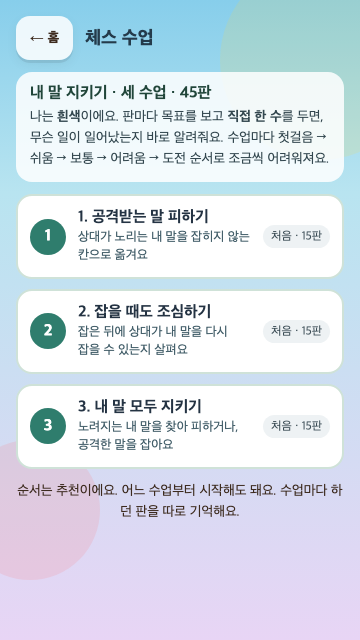
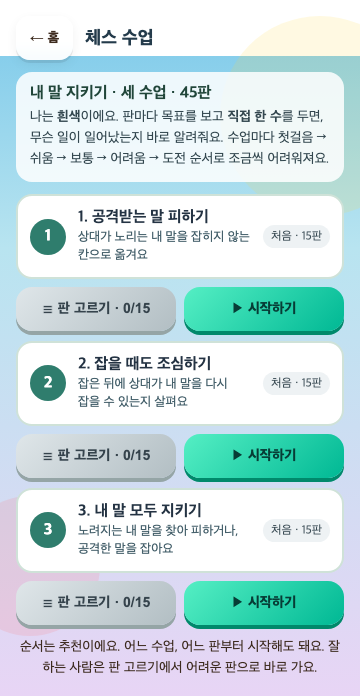
docs: 체스 수업 판 고르기 기록, 빌드 2026.11.07.5

diff --git a/js/version.js b/js/version.js
@@ -1,1 +1,1 @@
-globalThis.CHESS_BUILD = '2026.11.07.4';
+globalThis.CHESS_BUILD = '2026.11.07.5';

diff --git a/docs/lessons/LESSON_REDESIGN_V2.md b/docs/lessons/LESSON_REDESIGN_V2.md
@@ -1,6 +1,6 @@
 # 체스 수업 — 직접 두고, 둔 수를 설명한다
 
-작성: 2026-11-07. v2 빌드 `2026.11.07.3`, v3(45판·단계·성공 표시) 빌드 `2026.11.07.4`. 이 문서는 [첫 구현 명세](INTERACTIVE_LESSONS_DESIGN.md)의 수업 흐름(§3~§5 보기·함께·혼자, 지목형 수업 1)을 대체한다. 저장·백업 v5, 대전 연결, 무료·동일 기능, 판 고정 같은 나머지 계약은 그대로다.
+작성: 2026-11-07. v2 빌드 `2026.11.07.3`, v3(45판·단계·성공 표시) 빌드 `2026.11.07.4`, 판 고르기 빌드 `2026.11.07.5`. 이 문서는 [첫 구현 명세](INTERACTIVE_LESSONS_DESIGN.md)의 수업 흐름(§3~§5 보기·함께·혼자, 지목형 수업 1)을 대체한다. 저장·백업 v5, 대전 연결, 무료·동일 기능, 판 고정 같은 나머지 계약은 그대로다.
 
 ## 1. 왜 바꿨나
 
@@ -32,6 +32,28 @@ v2를 써 본 사용자 요청:
 - 판이 끝나면 목표 칸이 크게 바뀐다(`🎉 판 3 성공! · 3/15 클리어` / `✗ 잡혔어요! 다시 해봐요` / `✗ 아직 목표를 이루지 못했어요`). 판 테두리도 초록/빨강으로 바뀐다. 진행 줄에는 `판 7/15 · 보통`과 클리어 막대가 있고, 수업을 마치면 `🏆 15판 모두 성공!`이 나온다.
 - 판을 5판에서 15판으로, 모두 45판(3배)으로 늘렸다. 수업마다 5단계(첫걸음 → 쉬움 → 보통 → 어려움 → 도전) × 3판이다.
 - 판은 생성기(`scripts/generate-lesson-levels.cjs`)가 단계 조건에 맞춰 엔진으로 만든다. 난이도 점수가 판 번호를 따라 오르도록 고른다(§3).
+
+## 1-2. 판 고르기 (빌드 `2026.11.07.5`)
+
+사용자 요청: "판 자체를 고를 수 있게 해 달라. 어느 정도 하는 사람에게는 앞 단계가 지루하다."
+
+- **판 고르기 창**
+  - 단계(첫걸음~도전)별로 판 번호 버튼 3개씩, 모두 15개가 있다. 성공한 판은 ✓, 지금(하던) 판은 파란 테두리다.
+  - 잠금 없이 아무 판이나 바로 시작한다.
+  - 창 아래에 `↺ 1판부터 다시`(확인 뒤)가 있다.
+- **들어가는 곳**
+  - 수업 목록의 모든 카드에 `☰ 판 고르기 · 성공 n/15`가 있다(옆에 `▶ 시작하기` 또는 `↺ 처음부터`·`▶ 이어하기`).
+  - 수업 화면 오른쪽 위 버튼도 `☰ 판 고르기`다.
+- **판별 성공 기록**
+  - 성공한 판은 `lesson_progress_v1`의 `solved`(판 ID 목록)에 남는다. 그래서 다시 열거나 처음부터 해도 ✓가 유지된다.
+  - 어떤 순서로든 15판을 모두 성공하면 그 순간 수업 완료로 기록한다.
+- **성공 뒤 진행 버튼**
+  - 마지막 판이 아니면 `다음 판 ▶`이다.
+  - 마지막 판이면, 모두 성공했을 때 `수업 마치기 ▶`, 안 푼 판이 남았으면 `남은 판 하기 ▶`(첫 미해결 판으로)다.
+- **기타**
+  - 목록에서 판을 고르면 하던 판의 위치만 바뀌고, 성공 기록과 힌트 사용 여부는 이어진다.
+  - 응수 중에 판을 골라도 예약된 잡기는 버려진다.
+  - 파일 가져오기는 `solved` 목록도 확인한다(그 수업의 판 ID만, 중복 없이).
 
 ## 2. 판 하나의 진행
 
@@ -159,7 +181,7 @@ v2를 써 본 사용자 요청:
 
 | 영역 | 높이 | 내용 |
 |---|---|---|
-| 헤더 | 44px | `← 목록` · 제목(두 줄까지) · `↺ 처음부터` |
+| 헤더 | 44px | `← 목록` · 제목(두 줄까지) · `☰ 판 고르기` |
 | 진행 줄 | 28px | `판 n/15 · 단계` + 클리어 막대, 오른쪽 `나 = 흰색` |
 | 설명 영역 | 140px | 위칸 🎯 목표(두 줄, 판이 끝나면 성공/실패 문구), 아래칸 지금 할 일 또는 결과(넉 줄, 결과에 따라 색) |
 | 판 | 너비 `min(100%, max(260px, 100dvh − 312px))`, 최대 440px | 판의 말마다 `나`/`상대` 표시 |
@@ -167,7 +189,7 @@ v2를 써 본 사용자 요청:
 
 - 360×640에서 모든 상태의 문구가 넘치지 않는 것을 45판 전부 측정했다(실패·성공 상태 포함). 판의 화면 좌표는 모든 판·상태에서 같다.
 - 시범·소개 창·단계 칩·도움 3단계·`방법과 이유` 창은 없앴다. 이유는 결과 문장이 바로 말한다.
-- 수업 목록의 진행 중 카드에는 `↺ 처음부터 다시`(왼쪽)·`▶ 이어하기`(오른쪽)가 있다.
+- 수업 목록의 카드마다 `☰ 판 고르기`가 있고, 진행 중이면 `↺ 처음부터`·`▶ 이어하기`, 처음이면 `▶ 시작하기`가 있다.
 
 ## 5. 저장·호환
 
@@ -178,7 +200,7 @@ v2를 써 본 사용자 요청:
 - 복원·파일 가져오기는 신뢰된 교재의 배치와 기록된 수로 판을 다시 만들어 비교한다. 다르면 거절한다.
 - 세션·백업 버전은 그대로 v5다.
 - 예전 v1(`protect-spot-v1` 등)·v2(`protect-escape-v2` 등) 수업 ID의 저장·기록·수업 배치 대전이 파일이나 기기에 있으면 오류 없이 버린다. 교재가 바뀌어 이어할 수 없기 때문이다. 다른 모르는 ID는 여전히 거절한다.
-- 완료 기록: 모든 판 성공 뒤 `수업 마치기`에서 남는다. 수업 중 힌트를 썼으면 도움, 안 썼으면 혼자로 기록한다.
+- 완료 기록: 판별 성공은 `solved`에 쌓인다. 15판을 모두 성공한 순간 완료로 기록하고, 마지막 판의 `수업 마치기`에서도 기록한다. 수업 중 힌트를 썼으면 도움, 안 썼으면 혼자로 기록한다.
 
 ## 6. 검증
 

diff --git a/README.md b/README.md
@@ -15,7 +15,7 @@ npm run dev
 - **홈:** `체스 대전` / `기사의 여행 · 나이트 투어` / `체스 처음 배우기`로 한 번에 들어갑니다. 다른 놀이는 `놀이터 · 전체 놀이`와 `모험 지도`에서 그대로 제공합니다.
 - **대전:** [컴퓨터 10단계](docs/AI_DIFFICULTY.md)·같은 기기에서 함께 두기(마주 보기·한 수 시간)·말이 적은 짧은 판. 끝난 판의 설정 그대로 `같은 상대와 다시 두기`, 컴퓨터를 이기면 고를 수 있는 `다음 단계 도전`. [배운 말로 첫 대전](docs/STARTER_BATTLES.md) 4판(룩·비숍·나이트·퀸)과 대국 중 `말 움직임 보기`. 난이도 `!` 설명 표, 체크·캐슬링·승패의 명확한 알림, 체크 공격선과 실제 대응 방법, 힌트·시범·되돌리기, 캐슬링·앙파상·승격 선택.
 - **기사의 여행 · 나이트 투어:** 산책·10칸 탐험·5/6/7 크기 완주, 갈림길 알림·전체 경로/다음 한 수 힌트, 무작위 시작, 가족과 번갈아 두기. 무료 [규칙 문제 10판](docs/KNIGHT_RULE_PUZZLES.md): 일부 칸이 없는 판 5판, 순서 표식 5판.
-- **체스 수업:** 무료 `내 말 지키기` 3수업 × 15판 = 45판(공격받는 말 피하기 · 잡을 때도 조심하기 · 내 말 모두 지키기). 수업마다 첫걸음 → 쉬움 → 보통 → 어려움 → 도전 순서로 어려워지고, 판이 끝나면 성공·실패를 크게 알려줘요. 판마다 목표 한 줄을 보고 직접 한 수를 두면, 위험한 수는 상대가 실제로 잡고 이유를 한 문장으로 알려줘요. 상대 말을 누르면 갈 수 있는 칸, 힌트 2단계, 수업별 이어하기, 수업 배치로 대전. [v2 재설계](docs/lessons/LESSON_REDESIGN_V2.md) · [구현 기록](docs/lessons/IMPLEMENTATION_PROGRESS.md)
+- **체스 수업:** 무료 `내 말 지키기` 3수업 × 15판 = 45판(공격받는 말 피하기 · 잡을 때도 조심하기 · 내 말 모두 지키기). 수업마다 첫걸음 → 쉬움 → 보통 → 어려움 → 도전 순서로 어려워지고(판 고르기로 아무 판이나 바로 시작 가능), 판이 끝나면 성공·실패를 크게 알려줘요. 판마다 목표 한 줄을 보고 직접 한 수를 두면, 위험한 수는 상대가 실제로 잡고 이유를 한 문장으로 알려줘요. 상대 말을 누르면 갈 수 있는 칸, 힌트 2단계, 수업별 이어하기, 수업 배치로 대전. [v2 재설계](docs/lessons/LESSON_REDESIGN_V2.md) · [구현 기록](docs/lessons/IMPLEMENTATION_PROGRESS.md)
 - **체스 처음 배우기(모험):** 4×4·5×5 룩 입문부터 여섯 말의 이동·잡기·안전 학습. 실패 설명, 한 수 도움, 되돌리기.
 - **놀이터:** 성 지키기, 왕과 깃발 찾기, 별 수집, 선택형 이동 수 도전, 한 수 발견, 나이트 투어.
 - **이어서 놀기:** 추가·수정할 수 있는 로컬 프로필, 콘텐츠 종류별 최근 판, 새로고침 후 복원, 기존 별 보존, 프로필 파일 백업. 나이트는 같은 시작판을 다른 프로필에 넘길 수 있습니다.

diff --git a/docs/DEVELOPMENT_HANDOFF.md b/docs/DEVELOPMENT_HANDOFF.md
@@ -263,4 +263,5 @@ A-1 홈 직접 진입 (`js/app-home.js`, `js/app-session.js`, `js/app-play.js`, 
 - 첫 사용자 확인 뒤 수정(빌드 `2026.11.07.2`): 내 편이 어느 색인지, 무엇을 눌러야 하는지, 처음부터 다시 하는 방법을 알 수 없다는 피드백을 반영했다. 우리=흰색 표시·말마다 우리/상대 표시, 단계마다 `👉 지금 누를 것`, 새 수업 소개 창, `↺ 처음부터`, 홈 버전 글자색을 고쳤다. 자세한 내용은 [구현 기록 §6](lessons/IMPLEMENTATION_PROGRESS.md).
 - v2 재설계(빌드 `2026.11.07.3`): 2차 수정 뒤에도 진행이 어색하다는 피드백에 따라 방향부터 검토했다(리체스 학습·듀오링고 체스 비교). 수업을 "직접 한 수 두고, 위험하면 상대가 실제로 잡고, 한 문장으로 이유를 설명"하는 3수업 × 5판으로 다시 만들었다. [v2 재설계](lessons/LESSON_REDESIGN_V2.md).
 - v3(빌드 `2026.11.07.4`): 성공·실패를 목표 칸·판 테두리·클리어 막대로 분명히 표시했다. 판은 3수업 × 5단계 × 3판 = 45판이다. 생성기(`scripts/generate-lesson-levels.cjs`)가 난이도 점수가 오르도록 만든다.
+- 판 고르기(빌드 `2026.11.07.5`): 수업 목록·수업 화면에서 아무 판이나 바로 고른다(잠금 없음). 판별 성공 기록이 남는다.
 - 다음 후보: v3 실기기 확인(재설계 문서 §8)과 명세 §11 관찰, 체스 지도자 검수(기록 §5). 관찰 근거 없이 유료 과정·가격 실험을 시작하지 않는다.

diff --git a/docs/lessons/IMPLEMENTATION_PROGRESS.md b/docs/lessons/IMPLEMENTATION_PROGRESS.md
@@ -225,3 +225,12 @@
 - 교재 버전을 3으로, 수업 ID를 `*-v3`로 올렸다. v2(5판) 진행 기록은 v1처럼 오류 없이 버린다.
 - 검증: `npm test` 135/135, `npm run test:browser` 15개 묶음 통과. 수업 브라우저 검사는 360×640에서 45판 모두 실패·성공 표시를 실제 탭으로 거친다.
 - 자세한 내용(단계 정의, 45판 표)은 [재설계 문서](LESSON_REDESIGN_V2.md) §1-1·§3에 있다.
+
+## 10. 판 고르기 · 빌드 `2026.11.07.5`
+
+사용자 요청: 판을 직접 고르게 해 달라(잘하는 사람에게 앞 단계가 지루함).
+- 수업 목록과 수업 화면의 `☰ 판 고르기`에서 단계별 15판 중 아무 판이나 바로 시작한다. 잠금은 없다.
+- 판별 성공 기록(`solved`)을 남기고, 어떤 순서로든 모두 성공하면 완료로 기록한다.
+- 마지막 판 성공 뒤 안 푼 판이 남았으면 `남은 판 하기 ▶`가 나온다.
+- 검증: `npm test` 136/136, `npm run test:browser` 15개 묶음 통과(판 고르기 실제 탭 포함).
+- 자세한 내용은 [재설계 문서](LESSON_REDESIGN_V2.md) §1-2에 있다.
